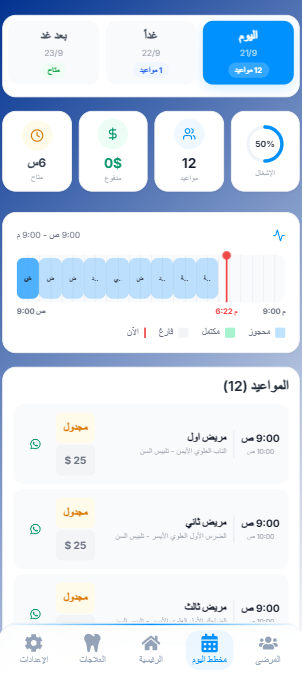
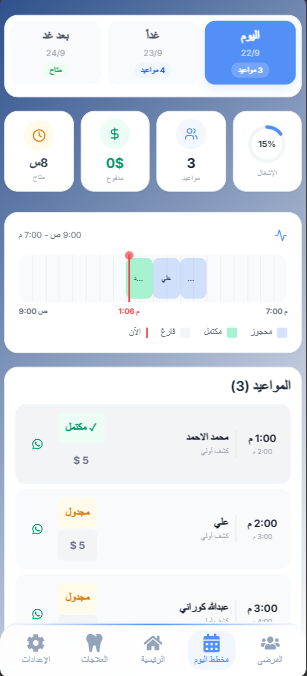
refactor: update pricing layout and improve registration success message

diff --git a/app/pricing/page.tsx b/app/pricing/page.tsx
@@ -349,7 +349,7 @@ export default function PricingPage() {
 
               {/* الوصف */}
               <p
-                className="text-sm sm:text-[15px] leading-relaxed mb-6 max-w-sm mx-auto"
+                className="text-sm sm:text-[15px] leading-relaxed mb-3 max-w-sm mx-auto"
                 style={{ color: COLORS.textSecondary }}
               >
                 {step.description}
@@ -374,78 +374,100 @@ export default function PricingPage() {
               </div>
 
               {/* الأسعار */}
-              {step.isPricing && (
-                <motion.div
-                  initial={{ opacity: 0, y: 10 }}
-                  animate={{ opacity: 1, y: 0 }}
-                  transition={{ delay: 0.3, duration: 0.5 }}
-                  className="grid grid-cols-2 gap-3 mt-7 max-w-xs mx-auto"
-                >
-                  {/* شهري */}
-                  <div
-                    className="p-4 rounded-2xl"
-                    style={{
-                      backgroundColor: COLORS.surface,
-                      border: `1px solid ${COLORS.border}`,
-                      boxShadow: '0 8px 30px rgba(0, 67, 250, 0.06)',
-                    }}
-                  >
-                    <p
-                      className="text-[10px] font-semibold uppercase tracking-wider mb-1.5"
-                      style={{ color: COLORS.textSecondary }}
-                    >
-                      شهرياً
-                    </p>
-                    <p className="text-2xl font-bold" style={{ color: COLORS.text }}>
-                      $10
-                    </p>
-                  </div>
+{step.isPricing && (
+  <motion.div
+    initial={{ opacity: 0, y: 10 }}
+    animate={{ opacity: 1, y: 0 }}
+    transition={{ delay: 0.3, duration: 0.5 }}
+    className="mt-7 max-w-sm mx-auto"
+  >
+    {/* بطاقتا الأسعار */}
+    <div className="grid grid-cols-2 gap-3">
+      
+      {/* ===== شهري ===== */}
+      <div
+        className="p-4 rounded-2xl text-center"
+        style={{
+          backgroundColor: COLORS.surface,
+          border: `1px solid ${COLORS.border}`,
+          boxShadow: '0 8px 30px rgba(0, 67, 250, 0.06)',
+        }}
+      >
+        <p
+          className="text-[10px] font-semibold uppercase tracking-wider mb-2"
+          style={{ color: COLORS.textSecondary }}
+        >
+          شهرياً
+        </p>
+        <p className="text-3xl font-bold mb-1" style={{ color: COLORS.text }}>
+          $10
+        </p>
+        <p
+          className="text-[10px] font-medium"
+          style={{ color: COLORS.textMuted }}
+        >
+          مرونة كاملة
+        </p>
+      </div>
 
-                  {/* سنوي */}
-                  <div
-                    className="p-4 rounded-2xl relative"
-                    style={{
-                      backgroundColor: `${COLORS.primary}10`,
-                      border: `1.5px solid ${COLORS.primary}50`,
-                      boxShadow: `0 10px 30px ${COLORS.primary}20`,
-                    }}
-                  >
-                    <div
-                      className="absolute -top-2 left-3 text-[9px] font-bold px-2 py-0.5 rounded-full"
-                      style={{
-                        backgroundColor: COLORS.primary,
-                        color: '#fff',
-                      }}
-                    >
-                      الأفضل
-                    </div>
-                    <p
-                      className="text-[10px] font-semibold uppercase tracking-wider mb-1.5"
-                      style={{ color: COLORS.textSecondary }}
-                    >
-                      سنوياً
-                    </p>
-                    <p
-                      className="text-2xl font-bold flex items-baseline gap-1.5"
-                      style={{ color: COLORS.primary }}
-                    >
-                      <span
-                        className="text-xs line-through opacity-50 font-medium"
-                        style={{ color: COLORS.textSecondary }}
-                      >
-                        $120
-                      </span>
-                      $100
-                    </p>
-                  </div>
-                </motion.div>
-              )}
+      {/* ===== سنوي (الأفضل) ===== */}
+      <div
+        className="p-4 rounded-2xl relative overflow-hidden text-center"
+        style={{
+          backgroundColor: `${COLORS.primary}10`,
+          border: `1.5px solid ${COLORS.primary}60`,
+          boxShadow: `0 12px 35px ${COLORS.primary}25`,
+        }}
+      >
+        <p
+          className="text-[10px] font-semibold uppercase tracking-wider mb-2 mt-2"
+          style={{ color: COLORS.primary }}
+        >
+          سنوياً
+        </p>
+        <p
+          className="text-3xl font-bold flex items-baseline justify-center gap-1.5 mb-1"
+          style={{ color: COLORS.primary }}
+        >
+          <span
+            className="text-xs line-through opacity-50 font-medium"
+            style={{ color: COLORS.textSecondary }}
+          >
+            $120
+          </span>
+          $100
+        </p>
+        <p
+          className="text-[10px] font-bold"
+          style={{ color: COLORS.primary }}
+        >
+          توفير $20 · شهرين مجاناً
+        </p>
+      </div>
+    </div>
+
+    {/* ===== سطر الطمأنة ===== */}
+    <motion.p
+      initial={{ opacity: 0 }}
+      animate={{ opacity: 1 }}
+      transition={{ delay: 0.6, duration: 0.5 }}
+      className="text-center text-[11px] sm:text-xs font-medium mt-4 flex items-center justify-center gap-1.5"
+      style={{ color: COLORS.textSecondary }}
+    >
+      <span
+        className="inline-block w-1.5 h-1.5 rounded-full"
+        style={{ backgroundColor: '#10b981' }}
+      />
+      سجّل مباشرة بدون أي رسوم — وجرّب إن كان نظامنا يلائمك
+    </motion.p>
+  </motion.div>
+)}
             </motion.div>
           </AnimatePresence>
         </div>
 
         {/* ===== التنقل ===== */}
-        <div className="mt-10 flex flex-col items-center gap-5">
+        <div className="mt-2 flex flex-col items-center gap-5">
           {/* النقاط */}
           <div className="flex items-center gap-1.5">
             {STEPS.map((_, i) => (

diff --git a/components/ToothChart/ToothInfoPanel.tsx b/components/ToothChart/ToothInfoPanel.tsx
@@ -7,6 +7,8 @@ import { Check, X, Plus, CalendarPlus, Trash2, AlertTriangle, Clock, CalendarDay
 import { ToothData } from "./ToothChart";
 import { createBulkSessions } from "@/client/helpers/session";
 import { getToothDisplay } from "@/lib/toothNames";
+import { useSearchParams, useRouter, usePathname } from "next/navigation";
+
 // ============================================================
 // الواجهات
 // ============================================================
@@ -285,7 +287,10 @@ export function ToothInfoPanel({
   const [isApplying, setIsApplying] = useState(false);
   const [applyMessage, setApplyMessage] = useState<{ type: 'success' | 'error'; text: string } | null>(null);
   const [displayPreference, setDisplayPreference] = useState<"number" | "name" | "both">("number");
-
+  // ✅ جديد - للتنقل بين التبويبات
+const router = useRouter();
+const pathname = usePathname();
+const searchParams = useSearchParams();
 useEffect(() => {
   const saved = localStorage.getItem('tooth_display_preference');
   if (saved === 'number' || saved === 'name' || saved === 'both') {
@@ -757,9 +762,29 @@ const handleConfirmApply = async () => {
               ) : (
                 <div className="space-y-2">
                   {availableTemplates.length === 0 ? (
-                    <p className="text-sm text-gray-400 py-2">
-                      لا توجد قوالب علاجية. أنشئ قوالب من تبويب العلاجات أولاً.
-                    </p>
+  <div className="py-3 space-y-3">
+    <p className="text-sm text-gray-400">
+      راجع القوالب العلاجية وتأكد أنها ملائمة لأسعارك ومواعيدك
+    </p>
+
+    <motion.button
+      whileHover={{ scale: 1.02, y: -1 }}
+      whileTap={{ scale: 0.98 }}
+      onClick={() => {
+        const params = new URLSearchParams(searchParams.toString());
+        params.set("tab", "treatments");
+        router.push(`${pathname}?${params.toString()}`, { scroll: false });
+      }}
+      className="inline-flex items-center gap-2 px-4 py-2.5 rounded-xl text-sm font-semibold transition-all"
+      style={{
+        backgroundColor: `${primaryColor}10`,
+        border: `1.5px solid ${primaryColor}30`,
+        color: primaryColor,
+      }}
+    >
+      <span>الذهاب إلى العلاجات</span>
+    </motion.button>
+  </div>
                   ) : (
                     availableTemplates.map((template) => (
                       <button

diff --git a/app/register/page.tsx b/app/register/page.tsx
@@ -692,7 +692,20 @@ function LiveDentRegistrationForm({
   const handleGoToDashboard = () => {
     if (!successData) return;
     const cleanPhone = cleanPhoneNumber(formData.phoneNumber);
-    const message = `مرحبًا ${formData.doctorName}، تم إنشاء حسابك بنجاح على LiveDent.\n\nاسم المستخدم: ${formData.username}\ \n\nيمكنك الآن تسجيل الدخول إلى لوحة التحكم الخاصة بك.`;
+    const message = `مرحباً د. ${formData.doctorName}
+
+أهلاً وسهلاً بك في LiveDent.
+
+يمكنك الآن تجربة النظام بكامل راحتك واستكشاف جميع ميزاته.
+
+نحترم وقتك — لن نزعجك بالتواصل الآن.
+
+سنتواصل معك خلال هذا الأسبوع.
+
+إذا احتجت أي مساعدة أو كان لديك استفسار، خدمة العملاء في خدمتك على الرقم:
++963982719525
+
+شكراً لك`;
     fetch("/api/v1/hello-user", {
       method: "POST",
       headers: { "Content-Type": "application/json" },

diff --git a/components/dashboard/tabs/ClinicInfoTab.tsx b/components/dashboard/tabs/ClinicInfoTab.tsx
@@ -373,7 +373,7 @@ useEffect(() => {
   const displayWorkingHours = isEditing ? workingHours : createWorkingHoursFromClinic(clinicData);
 
   return (
-    <div className="pt-3 pb-20 px-2 space-y-6" dir="rtl">
+    <div className="pt-3 pb-20 px-0 space-y-6" dir="rtl">
       {/* الهيدر */}
       <div className="flex items-center justify-between">
         <div>
